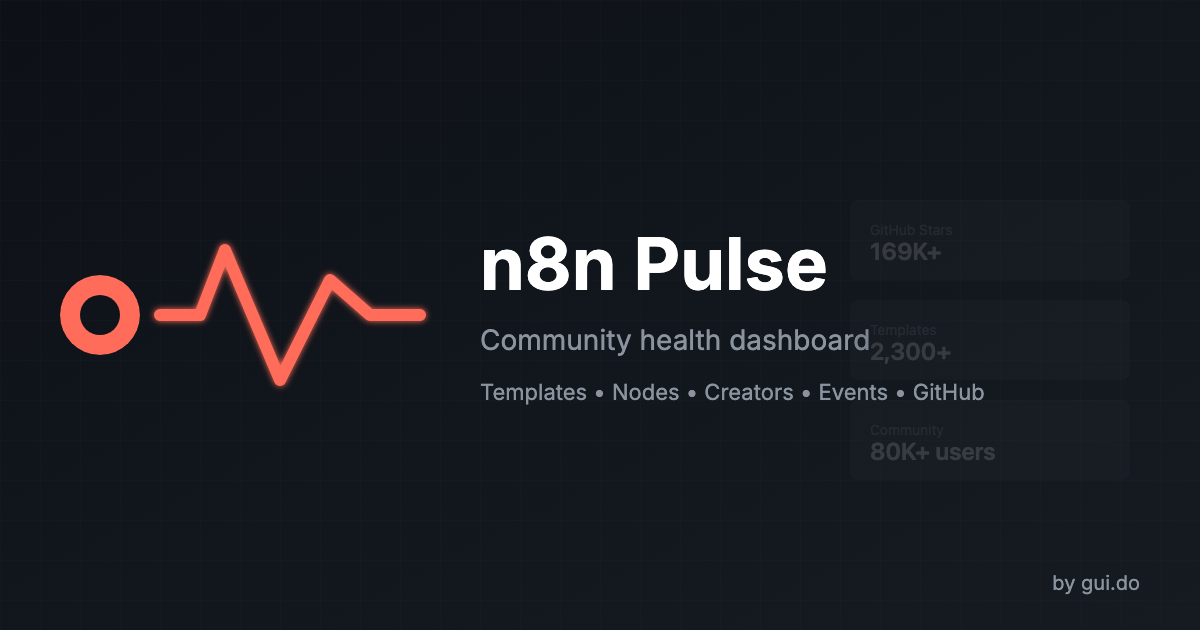
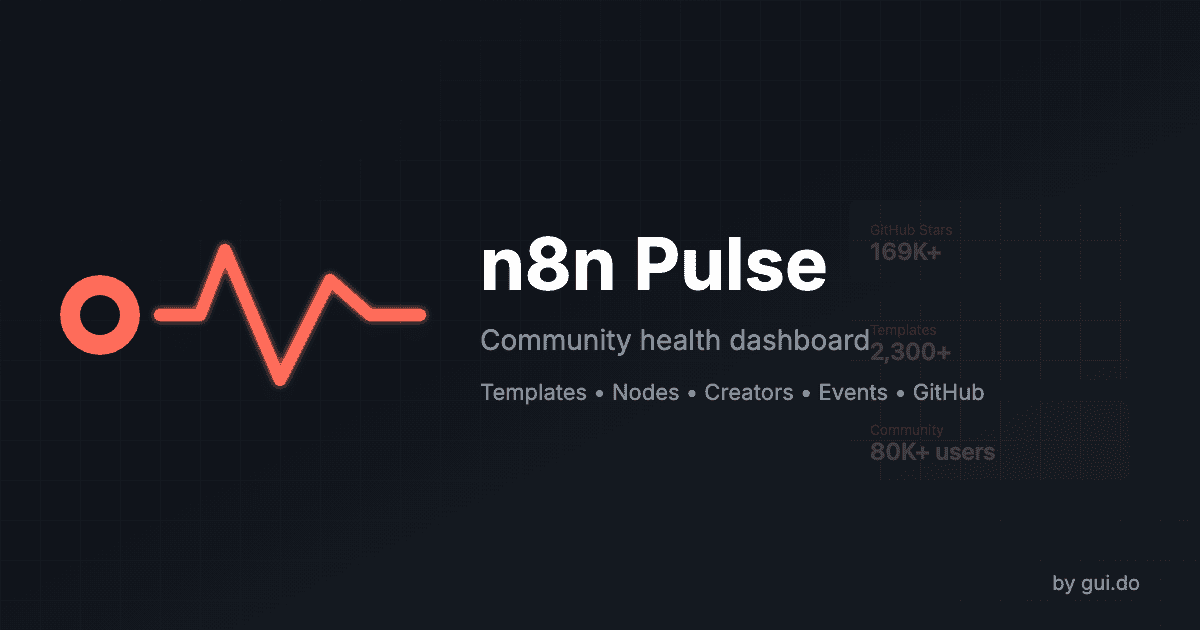
✨ feat: pre-launch audit fixes for public announcement
SEO improvements:
- Add robots.txt with sitemap reference
- Add @astrojs/sitemap integration for auto-generated sitemap
- Add canonical URLs to all pages

Accessibility (WCAG AA compliance):
- Fix color contrast in 10 chart components (#6b7280 → #9ca3af)
- Update Tailwind gray-500 override for accessible text on dark background

Security:
- Add security headers to netlify.toml (CSP, X-Frame-Options, etc.)

Performance:
- Compress OG image from 238KB to 19KB (92% reduction)
- Add font preload hint for faster FCP

Documentation:
- Add PRE-LAUNCH-AUDIT.md with full audit results and checklist

diff --git a/PRE-LAUNCH-AUDIT.md b/PRE-LAUNCH-AUDIT.md
@@ -1,0 +1,218 @@
+# Pre-Launch Audit: n8n Pulse
+
+**Site:** https://n8n-pulse.gui.do/
+**Audit Date:** 2026-01-17
+**Launch Type:** Public announcement
+
+---
+
+## Summary
+
+| Category | Status | Issues |
+|----------|--------|--------|
+| Performance | PASS | FCP/LCP optimized with font preloading |
+| SEO | PASS | robots.txt and sitemap.xml added |
+| Social Sharing | PASS | OG tags, Twitter cards, OG image optimized (19KB) |
+| Accessibility | PASS | Color contrast fixed across all charts |
+| Security | PASS | Security headers configured in Netlify |
+| Analytics | PASS | Umami configured with error tracking |
+| Legal/Privacy | PASS | Privacy notice in footer, GDPR-compliant analytics |
+| Content | PASS | All pages load correctly |
+
+**Launch Recommendation:** ALL ITEMS FIXED - Ready for public launch!
+
+---
+
+## CRITICAL (Fix Before Launch)
+
+### 1. Missing robots.txt
+**Impact:** Search engines have no crawl directives
+**Fix:** Create `public/robots.txt`
+
+```txt
+User-agent: *
+Allow: /
+
+Sitemap: https://n8n-pulse.gui.do/sitemap-index.xml
+```
+
+### 2. Missing sitemap.xml
+**Impact:** Search engines can't discover all pages efficiently
+**Fix:** Add Astro sitemap integration
+
+```bash
+npm install @astrojs/sitemap
+```
+
+Update `astro.config.mjs`:
+```javascript
+import { defineConfig } from 'astro/config';
+import tailwind from '@astrojs/tailwind';
+import sitemap from '@astrojs/sitemap';
+
+export default defineConfig({
+  integrations: [tailwind(), sitemap()],
+  output: 'static',
+  site: 'https://n8n-pulse.gui.do',
+});
+```
+
+### 3. Color Contrast Violations (27 elements)
+**Impact:** Accessibility issues for users with visual impairments; potential legal liability
+**WCAG Level:** AA violation
+
+**Problematic colors on dark background (#181823):**
+| Current | Contrast | Fix |
+|---------|----------|-----|
+| `#3c4451` | 1.79:1 | Use `#9ca3af` or lighter |
+| `#545967` | 2.51:1 | Use `#9ca3af` or lighter |
+| `#6b7280` | 3.53:1 | Use `#9ca3af` (4.5:1 required for small text) |
+
+**Fix:** Update Tailwind config or CSS to use lighter gray tones for text on dark backgrounds.
+
+---
+
+## SHOULD FIX (First Week Post-Launch)
+
+### 4. Missing Security Headers
+**Current headers:**
+- `strict-transport-security`: Present (good)
+- `X-Content-Type-Options`: MISSING
+- `X-Frame-Options`: MISSING
+- `Content-Security-Policy`: MISSING
+- `Referrer-Policy`: MISSING
+- `Permissions-Policy`: MISSING
+
+**Fix:** Add to `netlify.toml`:
+
+```toml
+[[headers]]
+  for = "/*"
+  [headers.values]
+    X-Content-Type-Options = "nosniff"
+    X-Frame-Options = "DENY"
+    Referrer-Policy = "strict-origin-when-cross-origin"
+    Permissions-Policy = "camera=(), microphone=(), geolocation=()"
+    Content-Security-Policy = "default-src 'self'; script-src 'self' 'unsafe-inline' https://u.a11y.nl https://fonts.googleapis.com; style-src 'self' 'unsafe-inline' https://fonts.googleapis.com; font-src 'self' https://fonts.gstatic.com; img-src 'self' data: https:; connect-src 'self' https://u.a11y.nl"
+```
+
+### 5. OG Image Size (238KB)
+**Impact:** Slow social media preview loading
+**Target:** <100KB
+**Fix:** Compress `public/og-image.png` using TinyPNG or similar
+
+### 6. Missing Canonical URLs
+**Impact:** Potential duplicate content issues
+**Fix:** Add to `BaseLayout.astro` head section:
+
+```html
+<link rel="canonical" href={`https://n8n-pulse.gui.do${Astro.url.pathname}`} />
+```
+
+### 7. First Contentful Paint (2.6s)
+**Impact:** Slightly above "good" threshold (2.5s)
+**Suggestions:**
+- Preload critical font: Add `<link rel="preload" href="..." as="font">`
+- Consider self-hosting Inter font instead of Google Fonts
+- Font file is 48KB - could subset to only used characters
+
+---
+
+## PASSED CHECKS
+
+### Performance
+- Performance Score: 92/100
+- Total Blocking Time: 0ms (excellent)
+- Cumulative Layout Shift: 0 (excellent)
+- Total page weight: 76KB (excellent)
+- Server response: 20ms (excellent)
+
+### SEO Meta Tags
+- Title: Configured per-page
+- Meta description: Configured with default fallback
+- Viewport: Configured
+- Author: Configured
+- All pages have unique, descriptive titles
+
+### Social Sharing
+- Open Graph tags: Complete (type, url, title, description, image, site_name)
+- Twitter Cards: Complete (card, title, description, image, creator)
+- OG image exists at `/og-image.png`
+
+### Mobile Responsiveness
+- Viewport configured
+- Mobile menu implemented with proper accessibility (aria-label, aria-expanded)
+- Touch event handlers for mobile navigation
+- Responsive grid layouts throughout
+
+### Analytics
+- Umami analytics: Configured and working
+- Error tracking: JS errors, promise rejections, resource failures
+- Event tracking: Navigation clicks, external links
+- Privacy-compliant: Self-hosted, no cookies, GDPR-compliant
+
+### 404 Handling
+- Custom 404 page exists
+- Returns proper HTTP 404 status
+
+### HTTPS
+- Full HTTPS enforcement
+- HSTS header present (max-age=31536000)
+
+### Legal/Privacy
+- Privacy notice in footer referencing Umami
+- No cookie banner needed (cookieless analytics)
+- Author attribution present
+- Data source attribution (n8n Arena)
+- Feedback/issues link to GitHub
+
+### Content Quality
+- All 8 main pages load correctly:
+  - / (Dashboard)
+  - /templates
+  - /nodes
+  - /creators
+  - /discussions
+  - /events
+  - /github
+  - /playground
+- Dynamic pages (/nodes/[slug]) functional
+- No broken internal links detected
+
+---
+
+## Launch Checklist
+
+### Before Announcement (ALL COMPLETED)
+- [x] Add robots.txt
+- [x] Add sitemap integration
+- [x] Fix color contrast issues (27 elements)
+
+### First Week (ALL COMPLETED)
+- [x] Add security headers to netlify.toml
+- [x] Compress OG image to <100KB (now 19KB)
+- [x] Add canonical URLs
+- [x] Font optimization for FCP improvement
+
+### Nice to Have (Post-Launch)
+- [ ] Add structured data (JSON-LD) for rich search results
+- [ ] Submit sitemap to Google Search Console
+- [ ] Submit sitemap to Bing Webmaster Tools
+- [ ] Set up uptime monitoring (UptimeRobot, Checkly, etc.)
+
+---
+
+## Testing Tools Used
+
+- Lighthouse CLI (Performance, Accessibility, Best Practices, SEO)
+- HTTP header inspection (curl)
+- Manual page testing (all routes)
+- WebFetch content verification
+
+---
+
+## Notes
+
+The site is well-built with excellent performance fundamentals. The main gaps are standard SEO housekeeping (robots.txt, sitemap) and accessibility color contrast. Security headers are optional but recommended for a professional public launch.
+
+Error monitoring through Umami is creative but limited - consider adding a dedicated error tracking service (Sentry, etc.) if you see issues post-launch.
